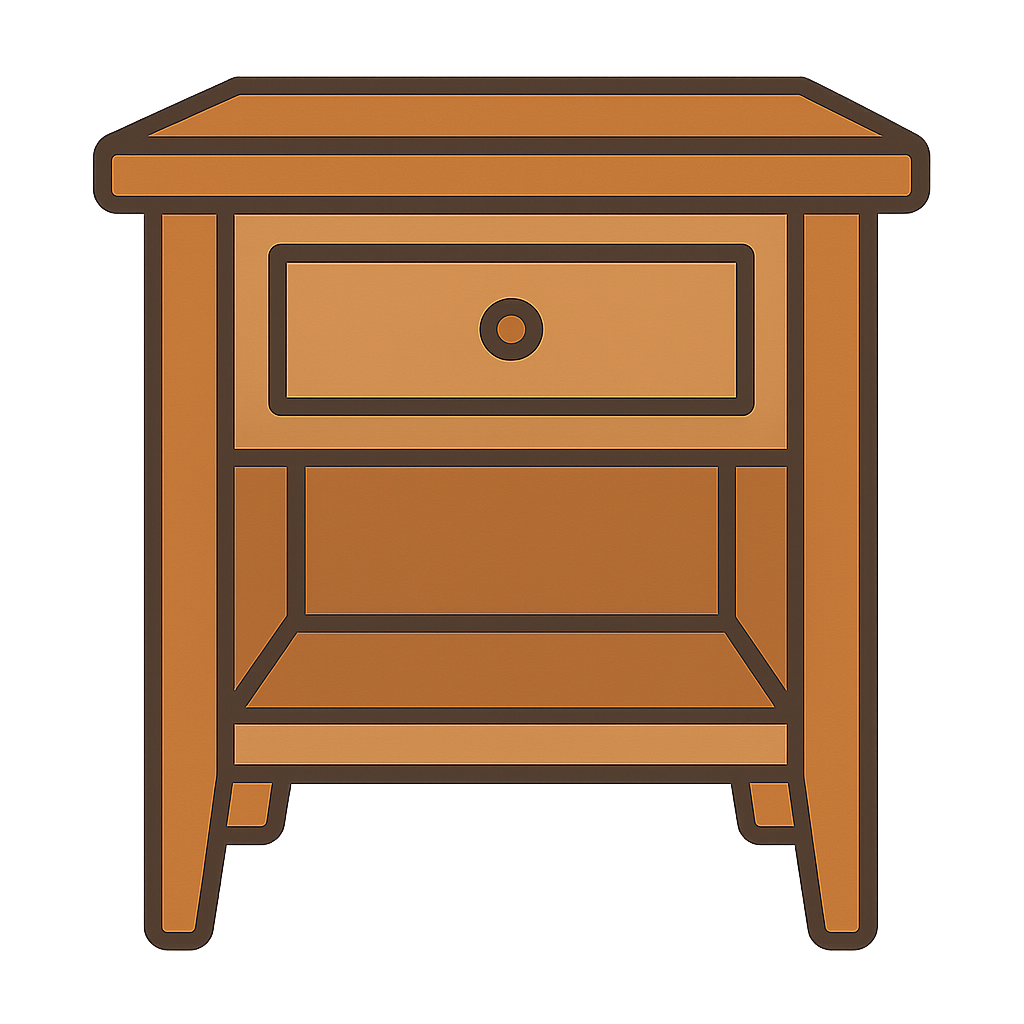
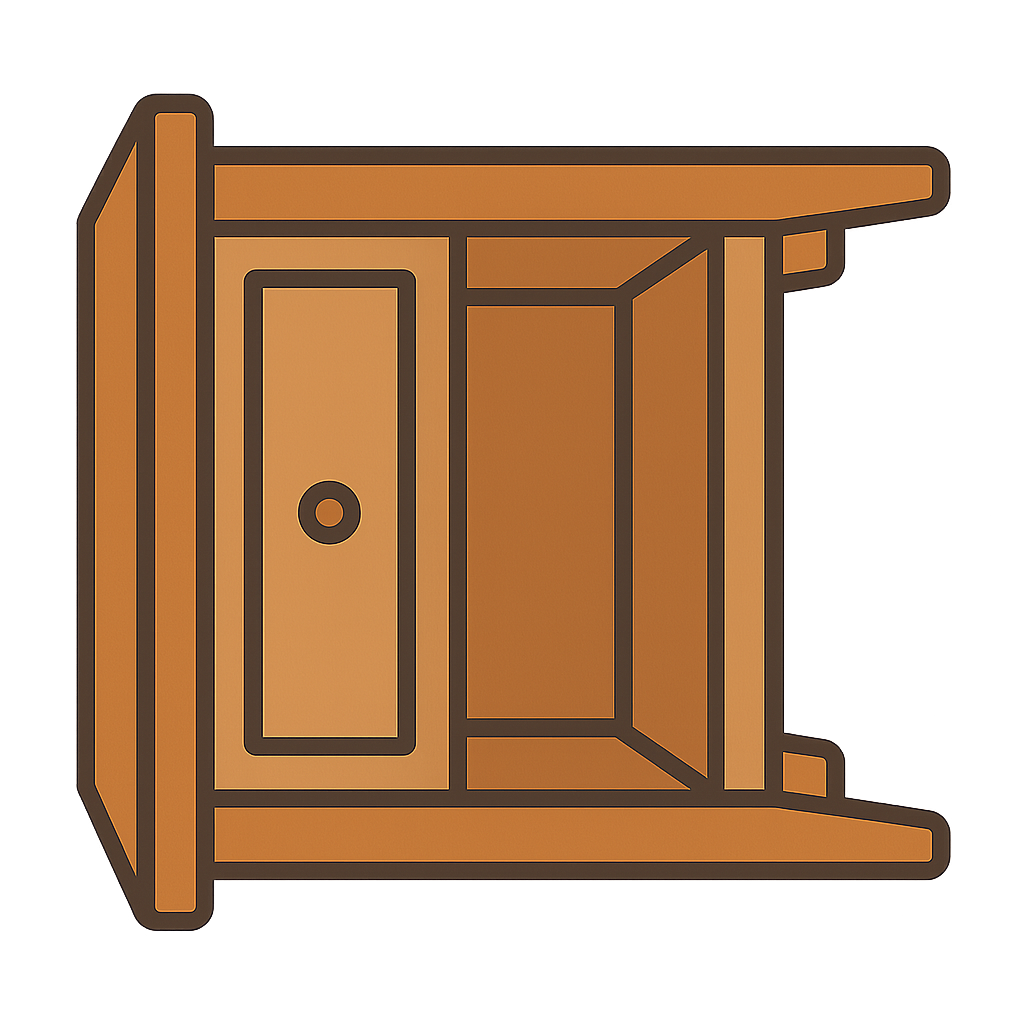
Rotacion de imagenes

diff --git a/Demo Habitacion/js/cama_1.js b/Demo Habitacion/js/cama_1.js
@@ -41,7 +41,7 @@ AFRAME.registerComponent('cama_1', {
         entity.setAttribute('position', '1 1 1');
         entity.setAttribute('scale', '1.5 1.5 1.5');
         entity.setAttribute('rotation', '0 0 0');
-        entity.setAttribute('delete_on_trash_collision', '');
+        entity.setAttribute('grabbable', '');
         scene.appendChild(entity);
     },
 });
